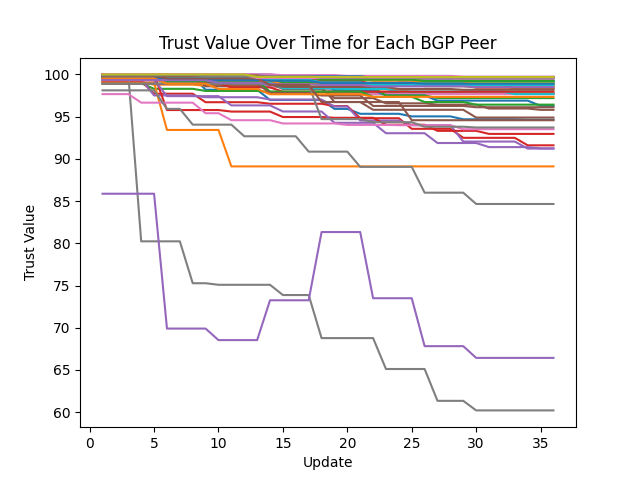
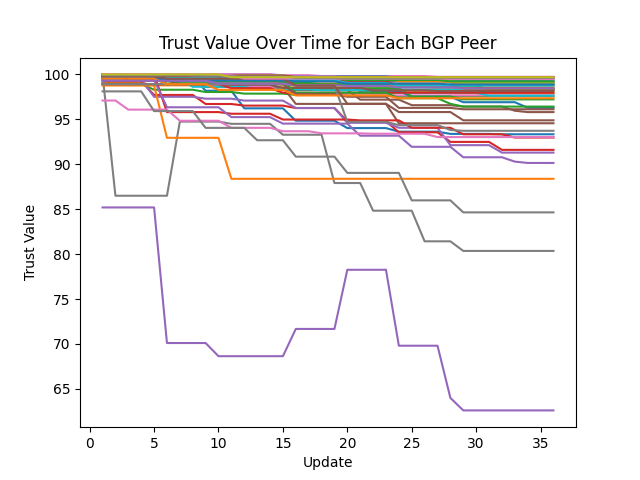
update

diff --git a/scripts/distributed_security_monitoring.py b/scripts/distributed_security_monitoring.py
@@ -1,3 +1,10 @@
+"""
+
+This file serves as my main blank for detecting
+
+
+"""
+
 import requests  # to connect to ripe database
 import math  # math!
 import matplotlib.pyplot as plt  # plotting library
@@ -7,6 +14,7 @@ leader = None  # bgp collector who acts as leader
 collectors = None  # list of collectors
 trust_over_time = {}  # trust values for plotting
 mutex = threading.Lock()  # lock for mutual exclusion across threads
+ratio_mutex = threading.Lock()
 base_trust = 100
 
 
@@ -36,12 +44,12 @@ class BGPPeer:
             d = 0.75 if trust_vals[i] <= 0.01 and i == 1 else 0.4
             tmp = (1 - math.exp(
                 -k * abs(1.75 * trust_vals[i] - 1))) * math.copysign(1, 1.75 *
-                                                                    trust_vals[
-                                                                        i] - 1) * d
+                                                                     trust_vals[
+                                                                         i] - 1) * d
             val += tmp
 
         self.trust += val  # update trust
-        return None
+        return val
 
 
 class BGPCollector:
@@ -93,14 +101,14 @@ class BGPCollector:
         for peer in self.bgp_peers:
             if peer.ip == peer_ip:
                 if trust_values is not None:
-                    self.flag_path(peer)
-                    peer.update_trust(trust_values)
+                    val = peer.update_trust(trust_values)
+                    self.flag_path(peer, val)
                 return None
         self.bgp_peers.append(BGPPeer(peer_ip))
         return None
 
-    def flag_path(self, peer):
-        if peer.trust < (base_trust * 0.6):
+    def flag_path(self, peer, val):
+        if peer.trust < (base_trust * 0.6) and val < 0:
             print(f"POTENTIAL BGP HIJACKING DETECTED FROM {peer.ip}. ALERT "
                   f"SYSTEM ADMIN")
 
@@ -260,11 +268,10 @@ class BGPCollector:
                         self.raw_community.append(community)
 
                         # calculate the frequencies
-                        trust_vals = self.calculate_ratios(path_length, path,
-                                                           community)
-
-                        self.update_peers(peer_ip, trust_vals)
-
+                        with mutex:
+                            trust_vals = self.calculate_ratios(path_length, path,
+                                                               community)
+                            self.update_peers(peer_ip, trust_vals)
 
                 with mutex:
                     self.train_models()  # train our local models
@@ -419,17 +426,17 @@ def update(bgp_collector: BGPCollector, start, end):
     return None
 
 
-if __name__ == "__main__":
+def example_main():
 
-    # 208.65.153.238 = youtube
-    # 140.211.0.0/16 = uoregon
+    name = input("Enter name of site you intend to use: ")
+    ip = input("Enter the IP of site: ")
 
     startime = "2023-6-01T17:59:51"
     endtime = "2023-09-01T17:59:51"
-    bgp_collector_11 = BGPCollector("140.211.0.0/16", "11", startime, endtime)
-    bgp_collector_14 = BGPCollector("140.211.0.0/16", "14", startime, endtime)
-    bgp_collector_16 = BGPCollector("140.211.0.0/16", "16", startime, endtime)
-    bgp_collector_21 = BGPCollector("140.211.0.0/16", "21", startime, endtime)
+    bgp_collector_11 = BGPCollector(ip, "11", startime, endtime)
+    bgp_collector_14 = BGPCollector(ip, "14", startime, endtime)
+    bgp_collector_16 = BGPCollector(ip, "16", startime, endtime)
+    bgp_collector_21 = BGPCollector(ip, "21", startime, endtime)
 
     start_update_times = ["2023-09-01T17:59:52", "2023-10-01T17:59:52",
                           "2023-11-01T17:59:52", "2023-12-01T17:59:52",
@@ -442,10 +449,12 @@ if __name__ == "__main__":
                         "2024-04-01T17:59:51", "2024-05-01T17:59:51",
                         "2024-05-19T17:59:51"]
 
+    global collectors
     collectors = [bgp_collector_11, bgp_collector_14, bgp_collector_16,
                   bgp_collector_21]
     collector_threads = []
 
+    global leader
     leader = collectors[0]
 
     for collector in collectors:
@@ -465,6 +474,10 @@ if __name__ == "__main__":
     for worker in collector_threads:
         worker.join()
 
-    plot_line_graph("uoregon-line-graph.png")
+    plot_line_graph(f"{name}-line-graph.png")
 
-    plot_bar_graph("uoregon-bar-graph.png")
+    plot_bar_graph(f"{name}-bar-graph.png")
+
+
+if __name__ == "__main__":
+    example_main()
